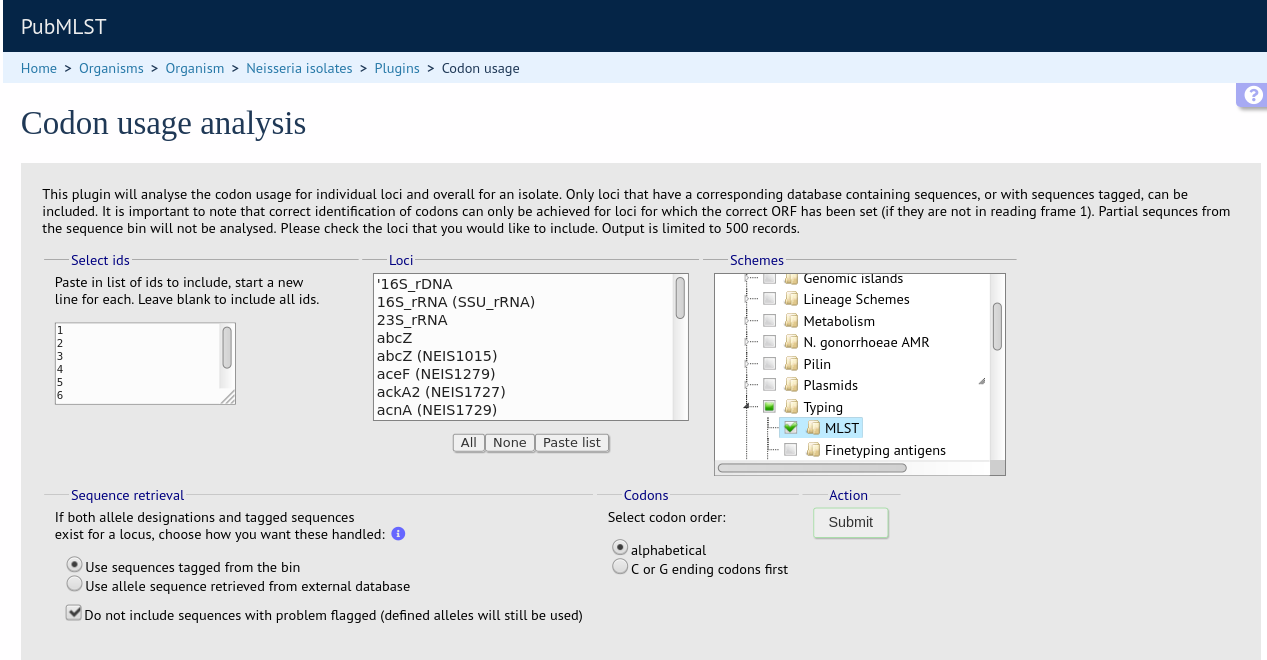
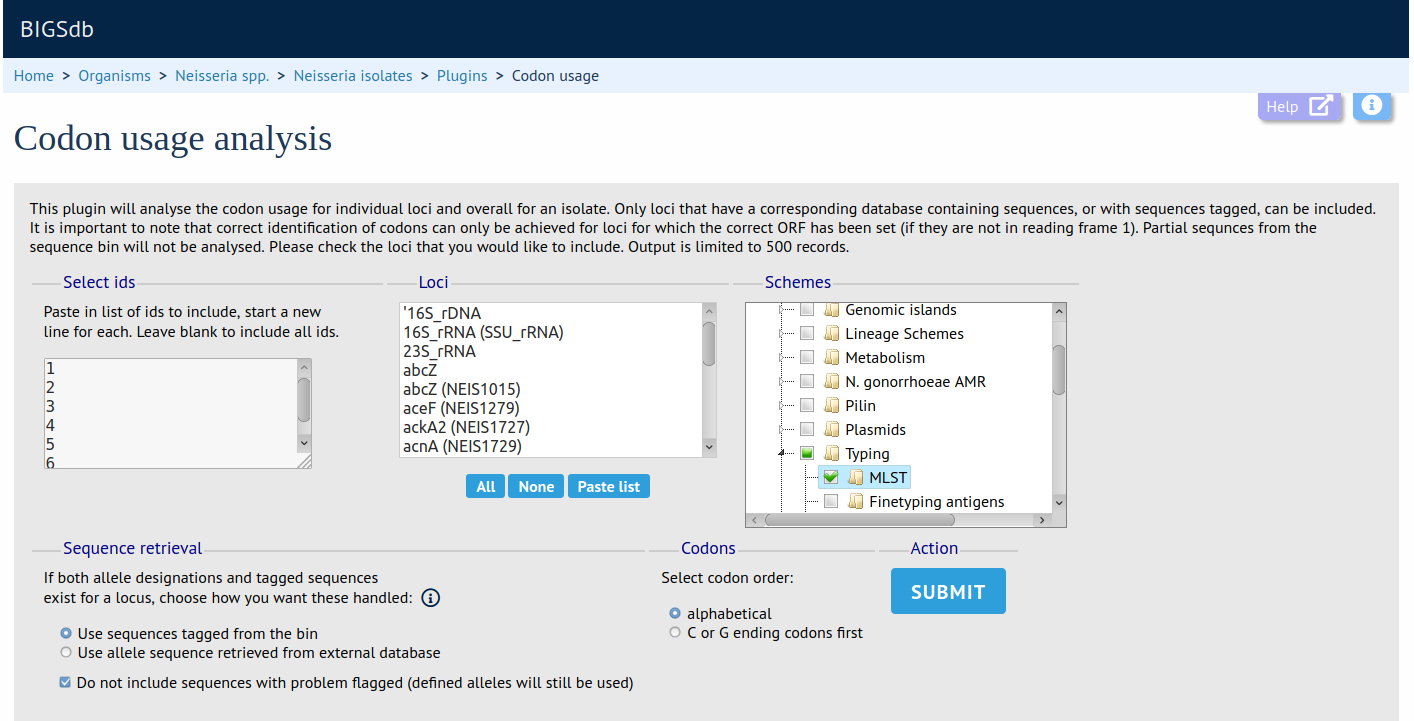
Update plugin screenshots.
Tweak CSS.

diff --git a/css/bigsdb.min.css b/css/bigsdb.min.css
@@ -1,1 +1,1 @@
[2 lines of base64/hex data omitted]

diff --git a/css/pivot.min.css b/css/pivot.min.css
@@ -1,1 +1,1 @@
-.pvtUi{color:#333}table.pvtTable{font-size:8pt;text-align:left;border-collapse:collapse}table.pvtTable tbody tr th,table.pvtTable thead tr th{background-color:#e6EEEE;border:1px solid #CDCDCD;font-size:8pt;padding:5px}table.pvtTable .pvtColLabel{text-align:center}table.pvtTable .pvtTotalLabel{text-align:right}table.pvtTable tbody tr td{color:#3D3D3D;padding:5px;background-color:#FFF;border:1px solid #CDCDCD;vertical-align:top;text-align:right}.pvtGrandTotal,.pvtTotal{font-weight:700}.pvtVals{text-align:center;white-space:nowrap}.pvtColOrder,.pvtRowOrder{cursor:pointer;width:15px;margin-left:5px;display:inline-block}.pvtAggregator{margin-bottom:5px}.pvtAxisContainer,.pvtVals{border:1px solid gray;background:#EEE;padding:5px;min-width:20px;min-height:20px;user-select:none;-webkit-user-select:none;-moz-user-select:none;-khtml-user-select:none;-ms-user-select:none}.pvtAxisContainer li{padding:8px 6px;list-style-type:none;cursor:move}.pvtAxisContainer li.pvtPlaceholder{-webkit-border-radius:5px;padding:3px 15px;-moz-border-radius:5px;border-radius:5px;border:1px dashed #aaa}.pvtAxisContainer li span.pvtAttr{-webkit-text-size-adjust:100%;background:#F3F3F3;border:1px solid #DEDEDE;padding:2px 5px;white-space:nowrap;-webkit-border-radius:5px;-moz-border-radius:5px;border-radius:5px}.pvtTriangle{cursor:pointer;color:grey}.pvtHorizList li{display:inline}.pvtVertList{vertical-align:top}.pvtFilteredAttribute{font-style:italic}.pvtFilterBox{z-index:100;width:300px;border:1px solid gray;background-color:#fff;position:absolute;text-align:center}.pvtFilterBox h4{margin:15px}.pvtFilterBox p{margin:10px auto}.pvtFilterBox label{font-weight:400}.pvtFilterBox input[type=checkbox]{margin-right:10px;margin-left:10px}.pvtFilterBox input[type=text]{width:230px}.pvtFilterBox .count{color:gray;font-weight:400;margin-left:3px}.pvtCheckContainer{text-align:left;font-size:14px;white-space:nowrap;overflow-y:scroll;width:100%;max-height:250px;border-top:1px solid #d3d3d3;border-bottom:1px solid #d3d3d3}.pvtCheckContainer p{margin:5px}.pvtRendererArea{padding:5px}
+.pvtUi{color:#333}table.pvtTable{font-size:8pt;text-align:left;border-collapse:collapse}table.pvtTable tbody tr th,table.pvtTable thead tr th{background-color:#002147;border:1px solid #CDCDCD;font-size:8pt;padding:5px}table.pvtTable .pvtColLabel{text-align:center}table.pvtTable .pvtTotalLabel{text-align:right}table.pvtTable tbody tr td{color:#3D3D3D;padding:5px;background-color:#FFF;border:1px solid #CDCDCD;vertical-align:top;text-align:right}.pvtGrandTotal,.pvtTotal{font-weight:700}.pvtVals{text-align:center;white-space:nowrap}.pvtColOrder,.pvtRowOrder{cursor:pointer;width:15px;margin-left:5px;display:inline-block}.pvtAggregator{margin-bottom:5px}.pvtAxisContainer,.pvtVals{border:1px solid gray;background:#EEE;padding:5px;min-width:20px;min-height:20px;user-select:none;-webkit-user-select:none;-moz-user-select:none;-khtml-user-select:none;-ms-user-select:none}.pvtAxisContainer li{padding:8px 6px;list-style-type:none;cursor:move}.pvtAxisContainer li.pvtPlaceholder{-webkit-border-radius:5px;padding:3px 15px;-moz-border-radius:5px;border-radius:5px;border:1px dashed #aaa}.pvtAxisContainer li span.pvtAttr{-webkit-text-size-adjust:100%;background:#F3F3F3;border:1px solid #DEDEDE;padding:2px 5px;white-space:nowrap;-webkit-border-radius:5px;-moz-border-radius:5px;border-radius:5px}.pvtTriangle{cursor:pointer;color:grey}.pvtHorizList li{display:inline}.pvtVertList{vertical-align:top}.pvtFilteredAttribute{font-style:italic}.pvtFilterBox{z-index:100;width:300px;border:1px solid gray;background-color:#fff;position:absolute;text-align:center}.pvtFilterBox h4{margin:15px}.pvtFilterBox p{margin:10px auto}.pvtFilterBox label{font-weight:400}.pvtFilterBox input[type=checkbox]{margin-right:10px;margin-left:10px}.pvtFilterBox input[type=text]{width:230px}.pvtFilterBox .count{color:gray;font-weight:400;margin-left:3px}.pvtCheckContainer{text-align:left;font-size:14px;white-space:nowrap;overflow-y:scroll;width:100%;max-height:250px;border-top:1px solid #d3d3d3;border-bottom:1px solid #d3d3d3}.pvtCheckContainer p{margin:5px}.pvtRendererArea{padding:5px}

diff --git a/css/bigsdb.css b/css/bigsdb.css
@@ -37,6 +37,7 @@ select {
 	margin: 0;
 	font-size: 1em;
 	border: 1px solid #ccc;
+	background: #fff
 }
 
 p {
@@ -213,7 +214,8 @@ a.sequence_tooltip, a.sequence_tooltip_incomplete, a.extract_tooltip, a.info_too
 a.tooltip {
 	cursor: pointer;
 	text-decoration: none;
-	color: #66f;
+	color: #002147;
+	font-size:0.6em
 }
 
 a.update_tooltip, a.sequence_tooltip, a.sequence_tooltip_incomplete {
@@ -1547,7 +1549,7 @@ table.resultstable {
 	padding: 0.1em;
 }
 
-table.resultstable td, th {
+table.resultstable td, table.resultstable th {
 	padding: 0 0.2em
 }
 
